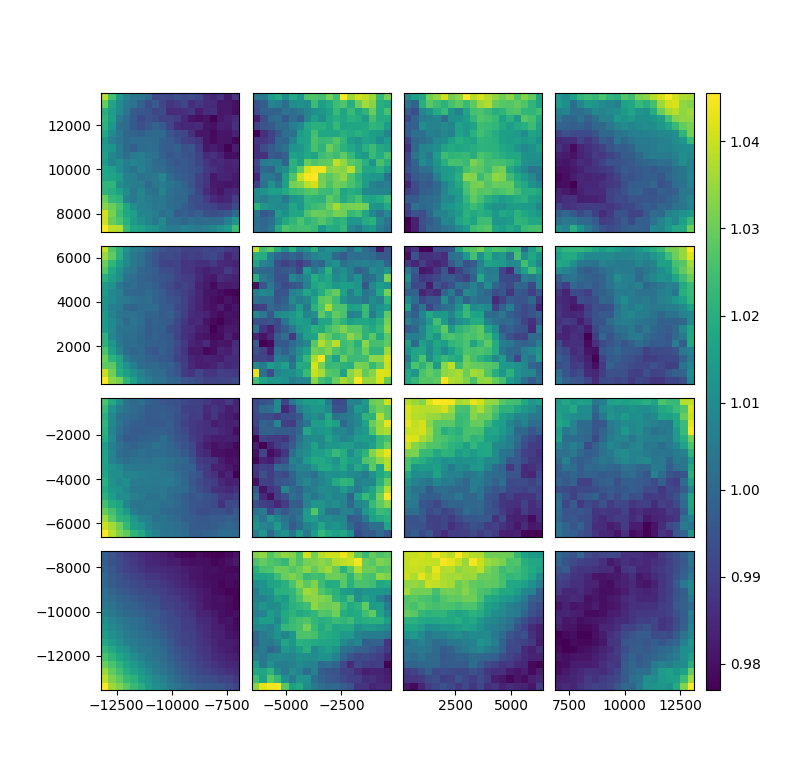
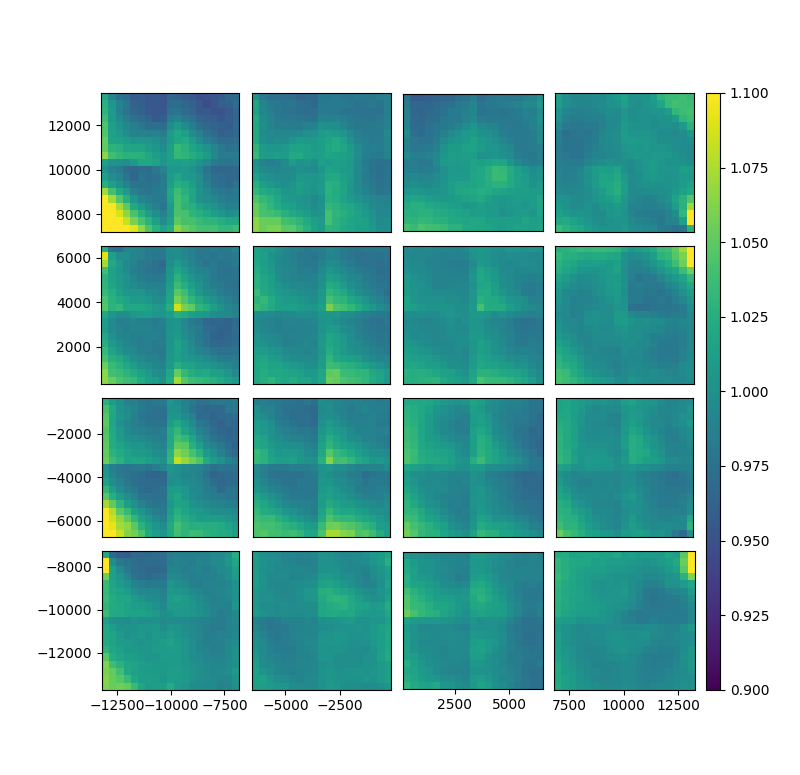
Fixed huge background error (reversed x,y by y,x)

diff --git a/ziff/stats.py b/ziff/stats.py
@@ -6,7 +6,7 @@
 # Author:            Romain Graziani <romain.graziani@clermont.in2p3.fr>
 # Author:            $Author: rgraziani $
 # Created on:        $Date: 2020/10/02 10:48:39 $
-# Modified on:       2020/10/02 14:41:44
+# Modified on:       2020/10/05 11:24:48
 # Copyright:         2019, Romain Graziani
 # $Id: stats.py, 2020/10/02 10:48:39  RG $
 ################################################################################
@@ -28,6 +28,7 @@ __adv__ = 'stats.py'
 
 import numpy as np
 from scipy.stats import binned_statistic_2d
+import matplotlib.pyplot as plt
 from .plots import make_focal_plane, get_ax_ccd, get_ax_cbar
 
 class BinnedStatistic(object):
@@ -50,7 +51,16 @@ class BinnedStatistic(object):
             flag *= (df[f['key']].values < f['range'][1]) * (df[f['key']].values >= f['range'][0])
         return flag.astype(bool)
 
-
+    def scatter_plot_group(self, group, key = 'T_data', **kwargs):
+        group = self._groupby.get_group(group)
+        flag = self.get_flag(group)
+        group = group[flag]
+        fig, ax = plt.subplots()
+        scat_kwargs = {'cmap':'RdBu_r', 's':50, 'vmin':0.9, 'vmax':1.1}
+        s = ax.scatter(group['u'],group['v'],c=np.asarray(group[key]),**{**scat_kwargs,**kwargs})
+        fig.colorbar(s,ax=ax)
+        return fig, ax
+    
     def compute_groupby_statistic(self, key = 'T_data', statistic = 'mean'):
         return getattr(getattr(self._groupby,key),statistic)()
 
@@ -80,7 +90,7 @@ class BinnedStatistic(object):
             ax, i, j = get_ax_ccd(fig, gs, ccd)
             bins_u, bins_v, hist = self.get_group_hist(key, ccd, **hist_kwargs)
             default_imshow_kwargs =  {'cmap' : 'viridis', 'origin':'lower', 'extent' : (bins_u[0],bins_u[-1],bins_v[0],bins_v[-1])}
-            im = ax.imshow(hist.T, **{**imshow_kwargs,**default_imshow_kwargs})
+            im = ax.imshow(hist.T, **{**default_imshow_kwargs,**imshow_kwargs})
             if i<3:
                 ax.get_xaxis().set_visible(False)
             if j>0:

diff --git a/ziff/scripts/run_ccd.py b/ziff/scripts/run_ccd.py
@@ -6,7 +6,7 @@
 # Author:            Romain Graziani <romain.graziani@clermont.in2p3.fr>
 # Author:            $Author: rgraziani $
 # Created on:        $Date: 2020/09/24 14:06:57 $
-# Modified on:       2020/10/01 10:24:14
+# Modified on:       2020/10/05 09:46:46
 # Copyright:         2019, Romain Graziani
 # $Id: run_ccd.py, 2020/09/24 14:06:57  RG $
 ################################################################################
@@ -62,11 +62,14 @@ for row in rows:
     z.set_config_value('psf,interp,order', args.interp_order)
     z.set_config_value('i/o,nstars', args.nstars) 
     z.set_config_value('psf,outliers,max_remove',20)
+
     #map_file = pkg_resources.resource_filename('ziff', 'data/interpolator.pkl')
     #z.set_config_value('psf,interp,interpolation_map_file',map_file)
     #z.set_config_value('psf,interp,type','BasisPolynomialPlusMap')
+
     if args.run:
         z.run_piff('gaia_calibration',overwrite_cat=True)
+        
     if args.shapes:
         z.set_config_value('i/o,nstars', args.shape_nstars) 
         stars = z.make_stars('gaia_full',overwrite_cat=False, append_df_keys = ['RPmag','BPmag','colormag'])

diff --git a/ziff/ziff.py b/ziff/ziff.py
@@ -6,7 +6,7 @@
 # Author:            Romain Graziani <romain.graziani@clermont.in2p3.fr>
 # Author:            $Author: rgraziani $
 # Created on:        $Date: 2020/09/21 10:40:18 $
-# Modified on:       2020/10/02 10:01:10
+# Modified on:       2020/10/05 10:31:24
 # Copyright:         2019, Romain Graziani
 # $Id: ziff.py, 2020/09/21 10:40:18  RG $
 ################################################################################
@@ -546,7 +546,7 @@ class Ziff(object):
 
     @property
     def quadrants(self):
-        return [int(p.split('_')[-4][1::]) for p in self.prefix]
+        return [int(p.split('_')[-2][1::]) for p in self.prefix]
 
     @property
     def fracday(self):

diff --git a/ziff/catalog.py b/ziff/catalog.py
@@ -100,7 +100,7 @@ class Catalog(object):
 
     def set_sky(self):
         bkgd = self.ziff.get_ztfimg()[0].get_background()
-        self.df['sky'] = bkgd[N.clip(self.xpos,0,3000).astype(int),N.clip(self.ypos,0,3000).astype(int)]
+        self.df['sky'] = bkgd[N.clip(self.ypos,0,self.ziff.shape[0]-1).astype(int),N.clip(self.xpos,0,self.ziff.shape[1]-1).astype(int)]
         
     def get_ypos(self):
         # If in keys, used keys
